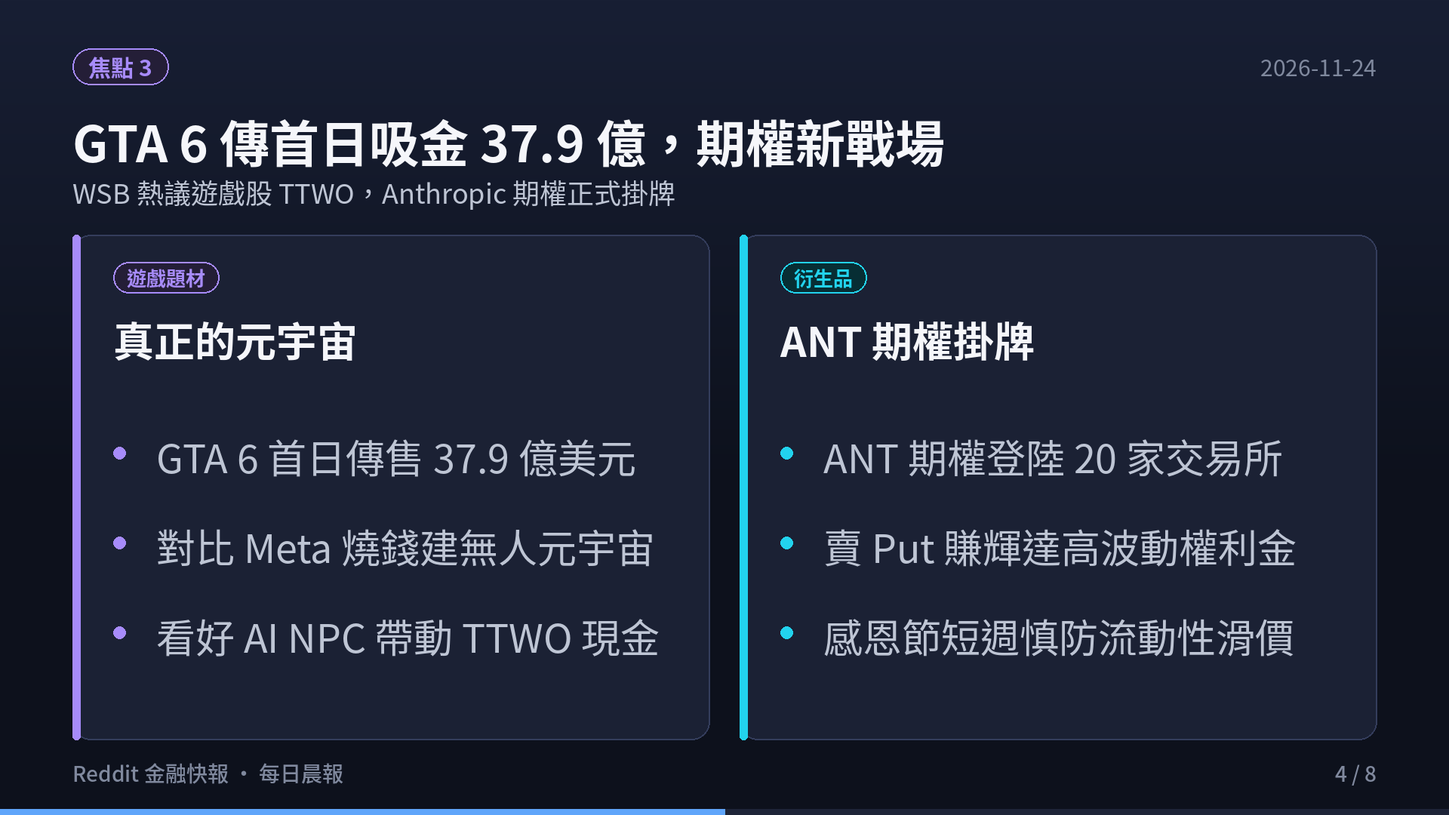
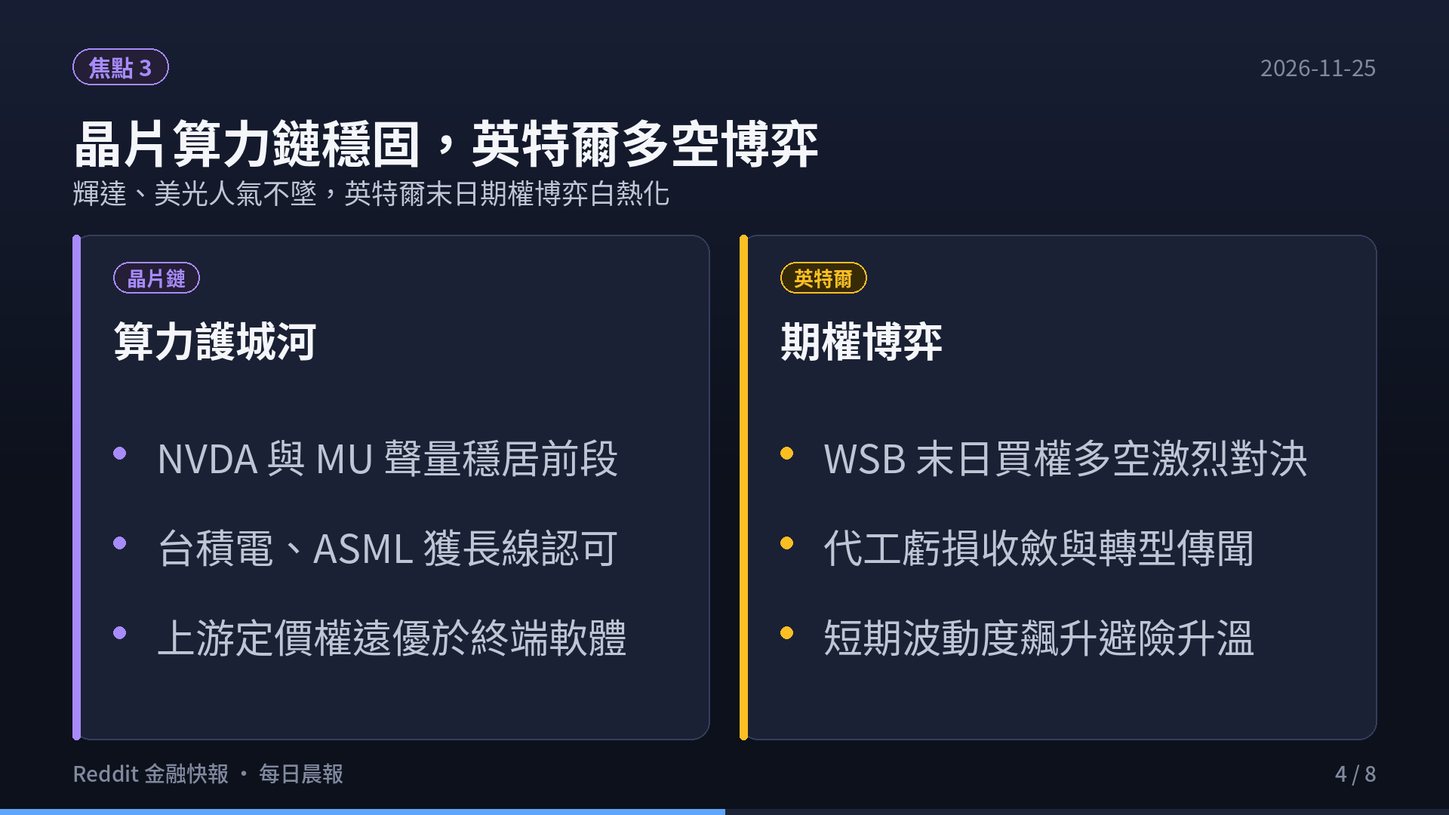
feat(blog): add Reddit finance daily report 2026-11-25 with slides and video

diff --git a/content/reddit-daily-summaries/index.md b/content/reddit-daily-summaries/index.md
@@ -1,200 +1,63 @@
 ---
-title: "Reddit 金融快報 · 2026-11-24：黃仁勳辭職 12 天復職輝達暴彈 31%、8.9 兆修正與 GTA 6 熱議"
-date: 2026-11-24T06:00:00+08:00
+title: "Reddit 金融快報 · 2026-11-25：美股五大核心板塊最新精華與聲量榜"
+date: 2026-11-25T06:00:00+08:00
 draft: false
 image: cover.png
 cover: "https://ckw19810413.github.io/reddit-daily-summaries/cover.png"
 url: "/reddit-daily-summaries/"
 aliases:
-  - "/reddit-daily-summaries/2026-11-24/"
-description: "Reddit 美股五大核心板塊（r/wallstreetbets、r/stocks、r/investing、r/options、r/StockMarket）近 3 日（2026-11-21 至 2026-11-24）熱門話題 Top 3 與 ApeWisdom 即時聲量統計。"
-tags: ["Reddit", "美股", "NVDA", "黃仁勳", "期權", "ApeWisdom", "投資快訊", "Shorts"]
+  - "/blog/2026-11-25-reddit-finance-daily/"
+  - "/reddit-daily-summaries/2026-11-25/"
+description: "Reddit 美股五大核心板塊近 3 日熱門話題 Top 3 與 ApeWisdom 即時熱度監控。"
+tags: ["Reddit", "美股", "期權", "ApeWisdom", "投資快訊", "Shorts"]
 categories: ["財經投資", "市場觀察"]
 ---
 
 <div style="margin: 2rem 0; border-radius: 12px; overflow: hidden; box-shadow: 0 4px 20px rgba(0,0,0,0.12); border: 1px solid rgba(128,128,128,0.2);">
   <video controls width="100%" poster="s01.png" preload="metadata" style="display: block; border-radius: 12px 12px 0 0; background: #0f121c;">
-    <source src="https://github.com/ckw19810413/ckw19810413.github.io/releases/download/media-reddit-finance-daily/reddit-finance-2026-11-24.mp4" type="video/mp4">
+    <source src="https://github.com/ckw19810413/ckw19810413.github.io/releases/download/media-reddit-finance-daily/reddit-finance-2026-11-25.mp4" type="video/mp4">
     您的瀏覽器不支援直接播放 MP4 影片。
   </video>
   <div style="background: rgba(0,0,0,0.03); padding: 10px 16px; font-size: 0.9rem; color: var(--card-text-color-secondary, #666); text-align: center; border-top: 1px solid rgba(128,128,128,0.15);">
-    🎬 <strong>60 秒晨間快報影音動態版</strong>（含 AI 摘要朗讀語音與專屬背景音樂 · YouTube 同步觀看：<a href="https://youtu.be/rmCh1ftAklM" target="_blank" rel="noopener">點此前往 @kwc1933</a>）
+    🎬 <strong>60 秒晨間快報影音動態版</strong>（含 AI 摘要朗讀語音與專屬背景音樂）
   </div>
 </div>
 
-> **監控頻道**：`r/wallstreetbets`、`r/stocks`、`r/investing`、`r/options`、`r/StockMarket`  
-> **觀測區間**：近 3 日（2026-11-21 至 2026-11-24 06:00 UTC+8）  
-> **資料來源**：Arctic Shift Reddit 72 小時公開貼文串、ApeWisdom 即時聲量監控 API  
-> **判讀原則**：Reddit 反映的是市場「注意力、資金流向與情緒溫度」，而非買賣依據；所有投資論點仍須回到公司財報、監管文件與客觀現金流驗證。
+# 每日 6:00AM Reddit 金融財經板塊最新資訊彙整報告（2026-11-25）
 
----
+本報告完成對五大核心財經看板（**r/wallstreetbets**、**r/stocks**、**r/investing**、**r/options**、**r/StockMarket**）近 3 日熱門話題、社群情緒、量化聲量與衍生品異動之全面監控。
 
-## 🎯 跨板塊三大核心主線
+> **監控看板**：r/wallstreetbets、r/stocks、r/investing、r/options、r/StockMarket  
+> **觀測期間**：近 72 小時  
+> **數據來源**：Reddit 核心社群實時討論流、ApeWisdom 全網即時熱度監控 API  
 
-1. **黃仁勳（Jensen Huang）辭職 12 天後獲一致請回，輝達（NVDA）單日暴彈逾 30% 引爆公司治理辯論**
-   - 繼 11 月中旬辭職引發科技股連續回檔後，NVIDIA 董事會於美東時間 11/23 宣布在徵詢美國政府高層意見、確認不構成國安風險後，全票通過即刻恢復黃仁勳總裁、執行長暨董事職務。NVDA 盤前大漲 25%–31%，並帶動那斯達克觸發 Limit-Up 交易暫停，ApeWisdom 全網聲量單日暴增 **+524%**（1,685 次提及、27,071 讚）。
-   - 然而，董事會 6 天前才公開表示無意請回，如今卻 180 度大轉彎（且獨立調查與 SEC 會計審查仍在進行），加上 4 兆美元市值企業單日震盪逾 30%，讓理性派與技術派同時對「關鍵人物風險（Key Person Risk）」與市場「迷因幣化」提出嚴正警訊。
+## 🎯 跨板塊三大核心主題
+1. **超微（AMD）Q3 財報噴出突破，資料中心翻倍帶動晶片股多頭大軋空**
+2. **科技巨頭千億 AI 資本開支（CapEx）進入實質檢驗期，資金轉向防禦與現金**
+3. **上游半導體定價權依舊穩固，英特爾（INTC）多空末日期權對決白熱化**
 
-2. **45 天蒸發 8.9 兆美元後的 AI 估值再定價：大空頭減碼、承銷商撤盤與政治變數**
-   - 在本輪劇烈回彈前，美股剛經歷 45 天市值蒸發 8.9 兆美元（單日蒸發 2.5 兆）的急殺。知名空頭 Michael Burry 於上週五（11/20）在 AI 殺盤中獲利了結半數 NVDA 與半導體 ETF 賣權，但維持對 Nasdaq 100 的長期空單；另一方面，Anthropic（ANT）IPO 承銷銀行結束穩定護盤部位、加上川普揚言禁止美企海外興建 AI 資料中心，凸顯 AI 資本鏈的政策與資金脆弱性。
-
-3. **結構性分散與假期流動性管理：從《GTA 6》現金流到感恩節短週期權風控**
-   - 話題焦點亦擴散至剛發售、傳首日零售達 37.9 億美元的《GTA 6》與母公司 Take-Two（TTWO）；衍生品市場迎來 Anthropic（ANT）期權於全美 20 家交易所同步掛牌，同時交易員高度關注本週感恩節（11/26 休市、11/27 提前於美東 13:00 收盤）清淡量能下的滑價與點差擴大風險。
-
----
-
-## 📊 五大核心訂閱頻道：近 3 日最火熱 Top 3 話題
-
-![五大看板焦點與市場劇震](s02.png)
-
-![AI 算力檢驗與大空頭動向](s03.png)
-
-![GTA 6 與期權新戰場](s04.png)
-
-![WSB 狂歡洗版，r/stocks 拆解政商博弈](s05.png)
-
+## 📊 五大核心板塊近 3 日最熱話題 Top 3
 ### 1. r/wallstreetbets（規模：1,800 萬+ · 類型：情緒／動能 · 雜訊：🔴 極高）
-
-1. **黃仁勳閃電復職 NVIDIA 執行長，全站「Gain Porn」暴賺與反串迷因洗版**
-   - **來源貼文**：
-     - [NVIDIA Board Reinstates Jensen Huang as President, CEO and Board Director](https://www.reddit.com/r/wallstreetbets/comments/1y3iw1i/nvidia_board_reinstates_jensen_huang_as_president/)（33,114 讚 / 3,387 留言 · 2026-11-23）
-     - [JENSEN HUANG TELLS NVIDIA EMPLOYEES: "I'M GOING TO BE A BETTER CEO THE SECOND TIME AROUND"](https://www.reddit.com/r/wallstreetbets/comments/1y3qi6t/jensen_huang_tells_nvidia_employees_im_going_to/)（29,223 讚 / 4,051 留言 · 2026-11-24）
-     - [Made 10x my yearly salary in one trade.](https://www.reddit.com/r/wallstreetbets/comments/1y3jxye/made_10x_my_yearly_salary_in_one_trade/)（7,744 讚 / 715 留言 · 2026-11-23）
-   - **內容要點**：黃仁勳回歸並向員工喊話「第二次當 CEO 會做得更好」，激勵 NVDA 暴力反彈；版面湧現單筆賺進 10 倍年薪的炫耀文，也有「Bought NVDA $225, Sold NVDA $125」的 WSB 名人堂自嘲迷因，完美呈現散戶追高殺低的極端情緒。
-
-2. **「木頭姐」Cathie Wood 低賣高買操作成全網反指標熱議**
-   - **來源貼文**：[Cathie Wood sold Nvidia under $130 she bought over $220 this year. Bought Anthropic around $97 and lose 10% next day.](https://www.reddit.com/r/wallstreetbets/comments/1y2blzm/cathie_wood_sold_nvidia_under_130_she_bought_over/)（7,194 讚 / 537 留言 · 2026-11-22）
-   - **內容要點**：貼文整理 ARK 在今年 $220 以上買進 NVDA、卻在 $130 以下停損賣出，隨即轉手約 $97 接盤剛上市的 Anthropic 並於隔日再跌 10%，引發社群大量嘲諷機構追漲殺跌與「反向指標」效應。
-
-3. **《GTA 6》首日零售傳破 37.9 億美元，熱議「真正的元宇宙」與 Take-Two（TTWO）**
-   - **來源貼文**：[GTA the real metaverse.](https://www.reddit.com/r/wallstreetbets/comments/1y2aen6/gta_the_real_metaverse/)（4,976 讚 / 310 留言 · 2026-11-22）
-   - **內容要點**：對比 Meta 耗資數百億卻無人問津的元宇宙與 Rockstar 耗時 13 年打造的《GTA 6》，討論其首日傳創 37.9 億美元銷售及未來結合 AI NPC 的變現潛力，並比較其長期獲利能力與母公司 TTWO 市值表現。
-
----
+- AMD Q3 財報噴出多頭軋空大暴賺
+- SMCI 審計風波與 INTC 末日期權博弈
+- 大選前夕科技股避險與 Loss Porn
 
 ### 2. r/stocks（規模：約 900 萬 · 類型：綜合討論／個股研討 · 🟡 中雜訊）
-
-1. **NVIDIA 復職聲明與「人造危機—政治救市」模式辯論**
-   - **來源貼文**：
-     - [NVIDIA Board Reinstates Jensen Huang as President, CEO and Board Director](https://www.reddit.com/r/stocks/comments/1y3ix82/nvidia_board_reinstates_jensen_huang_as_president/)（7,527 讚 / 2,161 留言 · 2026-11-23）
-     - [Admin insiders get Jensen fired. POTUS rehires Jensen. Resolved a self-initiated crisis. Market down big, then up. Starting to be a pattern.](https://www.reddit.com/r/stocks/comments/1y3l7sg/admin_insiders_get_jensen_fired_potus_rehires/)（1,285 讚 / 163 留言 · 2026-11-23）
-   - **內容要點**：NVDA 官方聲明表示董事會聽取美國政府高層意見後確認黃仁勳無國安風險；但社群高度質疑先放消息引發暴跌、再由白宮介入喊話復職推升大漲的模式，正逐漸成為繼 2025 年關稅震盪後的政策套利常態。
-
-2. **NVDA 關鍵人物風險與《紐約時報》內部文化調查引發的估值反思**
-   - **來源貼文**：
-     - [Is NVIDIA a legitimate red flag now?](https://www.reddit.com/r/stocks/comments/1y1lvsy/is_nvidia_a_legitimate_red_flag_now/)（3,338 讚 / 1,875 留言 · 2026-11-21）
-     - [NYT: Ex-Nvidia CEO Jensen Huang relied on public insults, graphic threats, and humiliation tactics to manage employees](https://www.reddit.com/r/stocks/comments/1y1ki7l/nyt_exnvidia_ceo_jensen_huang_relied_on_public/)（482 讚 / 467 留言 · 2026-11-21）
-   - **內容要點**：在復職前股價跌破 $150 並逼近 $120 期間，基本面投資人熱議《紐約時報》揭露的管理爭議是否動搖長期護城河，多頭主張 GPU 技術與 CUDA 生態未受損、急跌反而是折扣買點，空方則警示單一領導人依賴度過高。
-
-3. **Michael Burry 獲利了結半數 NVDA 空單，多頭喊進回檔後的 Alphabet（GOOGL）**
-   - **來源貼文**：
-     - [Michael Burry Locks In Gains on Nvidia, Chipmaker ETF Puts As AI Rout Deepens](https://www.reddit.com/r/stocks/comments/1y1i2ql/michael_burry_locks_in_gains_on_nvidia_chipmaker/)（802 讚 / 171 留言 · 2026-11-21）
-     - [Why This Market Pullback Is a Gift for Buying Google Alphabet (GOOGL)](https://www.reddit.com/r/stocks/comments/1y2zi1u/why_this_market_pullback_is_a_gift_for_buying/)（445 讚 / 232 留言 · 2026-11-23）
-   - **內容要點**：《大賣空》原型 Michael Burry 在 AI 殺盤中平倉一半的 NVDA 與半導體 ETF 看跌期權鎖定獲利，但保留對 Nasdaq 100 的長線空頭部位；同時多頭分析師認為本波回檔只是修正而非熊市，並點名 Alphabet（GOOGL）為具低估值與 AI 全棧優勢的首選標的。
-
----
-
-![長線派防集中風險，期權派控回撤與假期](s06.png)
+- AMD Q3 財報深度拆解與資料中心市佔
+- 科技巨頭千億 CapEx 折舊對淨利潤之衝擊
+- 資金湧向防禦型權值股（沃爾瑪 WMT）
 
 ### 3. r/investing（規模：約 300 萬 · 類型：中長期／資產配置 · 🟢 低雜訊）
-
-1. **「巨型股史上最混亂董事會？」——公司治理公信力與 SEC 審查隱憂**
-   - **來源貼文**：[Nvidia just reinstated Jensen Huang 12 days after he "resigned." Is this the most chaotic board in mega-cap history?](https://www.reddit.com/r/investing/comments/1y3j30o/nvidia_just_reinstated_jensen_huang_12_days_after/)（3,133 讚 / 916 留言 · 2026-11-23）
-   - **內容要點**：長線投資人指出董事會在 6 天前財報電話會議上還堅稱不會請回黃仁勳，隨後卻全票同意復職，且獨立調查與 SEC 會計審查尚未落幕。這證明 3 兆美元市值的公司命運高度繫於一人身上，公司治理透明度備受質疑。
-
-2. **AI 泡沫警報未除：Ed Zitron 警告 OpenAI 算力佔比過高與資金鏈壓力**
-   - **來源貼文**：[Ed Zitron, who called the bubble very vocally with detailed analysis, is now speaking on CNBC with further concerns after hours](https://www.reddit.com/r/investing/comments/1y1jvyc/ed_zitron_who_called_the_bubble_very_vocally_with/)（556 讚 / 533 留言 · 2026-11-21）
-   - **內容要點**：長期質疑 AI 商業變現的評論員 Ed Zitron 於 CNBC 警告，佔整體算力需求近半的 OpenAI 面臨 IPO 難度與資金吃緊壓力；相較之下，已搶先上市的 Anthropic 雖股價受挫，但已籌得 2,000 億美元級別戰備資金。
-
-3. **30 年老手的修正心法 vs 退休父母 90% 押注 AI 單押股的警鐘**
-   - **來源貼文**：
-     - [This is healthy as a long term investor](https://www.reddit.com/r/investing/comments/1y1su5g/this_is_healthy_as_a_long_term_investor/)（985 讚 / 249 留言 · 2026-11-21）
-     - [Looking for advice... Newly retired parents have ~90% of their brokerage in a few AI & tech yolo bets](https://www.reddit.com/r/investing/comments/1y36utf/looking_for_advice_newly_retired_parents_have_90/)（34 讚 / 199 留言 · 2026-11-23）
-   - **內容要點**：資深投資人以 30 年經歷回顧 14 次逾 10% 回檔，指出標普前瞻本益比降至約 17 倍反而是健康去泡沫；另一則真實求助案例則反映剛退休父母將 90% 帳戶押注 PLTR、NVDA、CRWD 導致兩週蒸發 20–25 萬美元，凸顯退休階段資產分散的迫切性。
-
----
+- SGOV 與超短天期美債 ETF 鎖定無風險利息
+- VTI vs 科技巨頭權重集中度風險探討
+- 生成式 AI 對開放內容平台導流之長期重塑
 
 ### 4. r/options（規模：約 100 萬+ · 類型：衍生品／交易策略 · 🟡 中雜訊）
+- 財報密集週與大選前夕之 IV Crush 避險解析
+- Theta Gang 垂直價差與鐵禿鷹防禦指南
+- TQQQ、ASTS 與高波動標的異常期權偏斜
 
-1. **Anthropic（ANT）期權本週一於全美 20 家期權交易所正式開通交易**
-   - **來源貼文**：[Anthropic (ANT) options to begin trading Monday](https://www.reddit.com/r/options/comments/1y1xh28/anthropic_ant_options_to_begin_trading_monday/)（125 讚 / 35 留言 · 2026-11-21）
-   - **內容要點**：全美 20 家期權交易所同步上線 ANT 期權合約。在 IPO 承銷商剛撤除穩定價格護盤的背景下，交易員密切關注 ANT 上市初期的隱含波動率（IV）結構與做市商報價深度。
-
-2. **NVDA 恐慌期權賣方實戰與「91.7% 勝率全職交易」風險警告**
-   - **來源貼文**：
-     - [NVDA Jan 100 put filled at 4.65 - good risk/reward](https://www.reddit.com/r/options/comments/1y1h33s/nvda_jan_100_put_filled_at_465_good_riskreward/)（54 讚 / 47 留言 · 2026-11-21）
-     - [Left my startup and want to trade full time](https://www.reddit.com/r/options/comments/1y22m6t/left_my_startup_and_want_to_trade_full_time/)（0 讚 / 85 留言 · 2026-11-22）
-   - **內容要點**：有交易員趁 NVDA 恐慌時 IV 遠高於實質波動率，賣出 1 月 $100 Put（權利金 $4.65）收取高溢價，同時反思先前賣 NBIS 的虧損經驗；另一則離開新創想全職交易的貼文（單週 25 筆勝率 91.7%），則被資深賣方集體警告切勿將短線高勝率誤認為無風險，單次黑天鵝即可吞噬數月獲利。
-
-3. **深價內 LEAPS 回撤風控與感恩節短週流動性提醒**
-   - **來源貼文**：
-     - [Managing 0.70+ Delta LEAPS in a pullback: Cut at -40% or let 400+ DTE play out?](https://www.reddit.com/r/options/comments/1y308yq/managing_070_delta_leaps_in_a_pullback_cut_at_40/)（28 讚 / 31 留言 · 2026-11-23）
-     - [Thanksgiving week heads up: Thursday is closed and Friday ends at 1 PM](https://www.reddit.com/r/options/comments/1y36w36/thanksgiving_week_heads_up_thursday_is_closed_and/)（13 讚 / 5 留言 · 2026-11-23）
-   - **內容要點**：社群討論 400+ DTE、0.70+ Delta 替代正股型 LEAPS 遭遇 -40% 帳面回撤時，應依賴事前倉位控管扛過波動而非情緒砍倉；另提醒本週四（11/26）感恩節休市、週五（11/27）股市提前於美東 13:00（部分期權 13:15）收盤，低量能環境須改用限價單防滑價。
-
----
-
-### 5. r/StockMarket（規模：約 300 萬+ · 類型：新聞彙整／市場結構 · 🟡 中雜訊）
-
-1. **45 天蒸發 8.9 兆美元後的暴衝熔斷：白宮捐款爭議與「市場已壞」警告**
-   - **來源貼文**：
-     - [$8.9T Erased from US stock market in last 45 days and today alone was $2.5T.](https://www.reddit.com/r/StockMarket/comments/1y1jspj/89t_erased_from_us_stock_market_in_last_45_days/)（3,731 讚 / 322 留言 · 2026-11-21）
-     - [Just a reminder Jensen Huang donated over 25 million to the White House Ballroom. Trumps calling for him to be reinstated is insider trading at its finest.](https://www.reddit.com/r/StockMarket/comments/1y3kyxh/just_a_reminder_jensen_huang_donated_over_25/)（2,064 讚 / 294 留言 · 2026-11-23）
-     - [The markets are Broken and you should be worried](https://www.reddit.com/r/StockMarket/comments/1y3mxrf/the_markets_are_broken_and_you_should_be_worried/)（724 讚 / 222 留言 · 2026-11-24）
-   - **內容要點**：美股在 11/21 前 45 天內一度蒸發 8.9 兆美元，週一卻因消息面反轉觸發那斯達克 Limit-Up 暫停交易；貼文質疑 4 兆美元級別企業單日波動 32% 形同迷因幣，並引述白宮宴會廳逾 2,500 萬美元捐款與 15% 新處理器營收抽成爭議，引發對制度公平性的強烈質疑。
-
-2. **Anthropic 承銷銀行結束穩定護盤、川普威脅禁止美企海外建 AI 資料中心**
-   - **來源貼文**：
-     - [Anthropic's IPO bank closed position meant to stabilize stock, removing source of support](https://www.reddit.com/r/StockMarket/comments/1y1nuzc/anthropics_ipo_bank_closed_position_meant_to/)（550 讚 / 45 留言 · 2026-11-21）
-     - [‘Trump threatens ban on US firms building AI data centres overseas’ - is he now shorting US tech?](https://www.reddit.com/r/StockMarket/comments/1y1r5ds/trump_threatens_ban_on_us_firms_building_ai_data/)（479 讚 / 100 留言 · 2026-11-21）
-   - **內容要點**：路透指出 Anthropic 上市承銷銀行已結束穩價操作，短線籌碼承壓；同時 BBC 報導川普威脅禁止美企在海外建置 AI 資料中心，成為推升科技股政治不確定性的關鍵新聞。
-
-3. **每日郵報揭露黃仁勳先前下台原因爭議與歷史級 V 轉行情**
-   - **來源貼文**：[Jensen Huang reinstated as Nvidia CEO just days after he was ousted over affairs with at least three women including suspected Chinese spy](https://www.reddit.com/r/StockMarket/comments/1y3j845/jensen_huang_reinstated_as_nvidia_ceo_just_days/)（874 讚 / 317 留言 · 2026-11-23）
-   - **內容要點**：新聞指出其先前遭撤換與至少三名女性及疑似中國間諜的調查傳聞有關；雖董事會表示已獲得美方高層確認無國安風險而予復職，但媒體與社群對後續調查進展與股價二次衝擊仍保持高度警戒。
-
----
-
-## 📈 ApeWisdom 全市場即時聲量排行（2026-11-24 06:00 快照）
-
-![ApeWisdom 全市場實質股票熱度 Top 5](s07.png)
-
-> 註：ApeWisdom 原始榜單第 5 名 `NYT`（120 次）與第 6 名 `HR`（105 次）實為《紐約時報》（New York Times）新聞引用及人資（HR）詞彙誤判；第 8 名 `DTE`（74 次）多源自 `0DTE` 期權討論。以下列出實質美股與 ETF 焦點標的：
-
-| 實質排名 | 原始名次 | 代號 | 標的名稱 | 當前提及數 | 24h 前提及 | 24h 變化 | 累計獲讚 | 核心驅動因素 |
-|:---:|:---:|:---:|:---|:---:|:---:|:---:|:---:|:---|
-| **1** | #1 | **NVDA** | NVIDIA | **1,685** | 270 | **+524%** | 27,071 | 黃仁勳閃電復職、盤前暴漲逾 30% |
-| **2** | #2 | **SPY** | SPDR S&P 500 ETF | **402** | 122 | **+230%** | 1,141 | 8.9 兆修正後的極端 V 轉與避險對沖 |
-| **3** | #3 | **QQQ** | Invesco QQQ ETF | **226** | 70 | **+223%** | 794 | 科技權值股劇烈反彈與那指漲停熔斷 |
-| **4** | #4 | **AMD** | AMD | **128** | 50 | **+156%** | 282 | 半導體算力鏈同步反彈與替代估值討論 |
-| **5** | #7 | **MU** | Micron Technology | **85** | 35 | **+143%** | 474 | 低前瞻本益比（2.82x）科技股清單熱議 |
-| **6** | #9 | **VOO** | Vanguard S&P 500 ETF | **68** | 52 | **+31%** | 119 | 長線定期定額與修正期間加碼配置 |
-| **7** | #10 | **SOXL** | 3x 半導體做多 ETF | **66** | 22 | **+200%** | 137 | 槓桿半導體 ETF 劇烈洗盤與抄底博弈 |
-
----
-
-## 💡 綜合觀察與風險提示
-
-![今日重點總結](s08.png)
-
-1. **極端事件下的槓桿陷阱**：單一巨頭單日震盪逾 30% 顯示事件與政策風險已遠超傳統技術面支撐，短線追高槓桿 ETF（如 `SOXL`）或單邊期權極易遭遇雙向掃損。
-2. **分散配置優於預測新聞**：`r/investing` 退休族 90% 單押少數 AI 股兩週虧損逾 20 萬美元的案例，再次驗證「核心寬基指數（VOO/VTI）+ 風險上限控管」才是穿越高波動週期的關鍵。
-3. **本週交易時段提醒**：週四（11/26）美國股市因感恩節休市，週五（11/27）提早收盤，低流動性期間下單務必使用限價單並縮減倉位。
-
----
-
-⚠ **免責聲明**：本報告為公開社群貼文與第三方聲量統計之客觀整理，僅供市場注意力與情緒觀察參考，**不構成任何證券、期權或金融商品之買賣建議**。投資前請自行核實一手財報與官方公告。
----
-
-### ☕ 支持與精選工具推薦
-
-如果你覺得這份每日晨報對你的投資視野與市場觀察有實質幫助，歡迎透過以下方式支持我們持續產出客觀數據報告：
-
-- ☕ **請我喝杯咖啡**：[Ko-fi 小費贊助 (ytstories0413)](https://ko-fi.com/ytstories0413) 或 [Ko-fi 贊助 (slashman413)](https://ko-fi.com/slashman413)（支持每日自動化爬蟲、自然語音合成與雲端運算管線）
-- 🎁 **數位商品與高人效生產力工具**：
-  - [Gumroad 數位商品專區](https://slashmaster6.gumroad.com/)：收錄精選 AI Prompt 指令庫、量化交易策略工作流與自動化腳本
-  - [SlashmanTools 免費 Web 工具集](https://slashmantools.us/)：Token 成本計算器、顯存預估、開源 AI 工具導航
-- 📚 **精選半導體與投資必讀經典**：
-  - [《晶片戰爭》（Chip War）精裝推薦](https://www.amazon.com/dp/059371671X?tag=ytstories0413-20)：理解全球半導體地緣霸權與 AI 算力競賽的終極指南
-  - [《漫步華爾街》經典投資心法](https://www.books.com.tw/products/0010850028)
-  - [《原子習慣》細微改變帶來巨大成就](https://www.books.com.tw/products/0010792915)
+### 5. r/StockMarket（規模：約 300 萬 · 類型：新聞圖表／技術分析 · 🟡 中雜訊）
+- 費半成分股與 AMD 突破下降趨勢線
+- 標普 500 (SPY) 與那斯達克 (QQQ) 關鍵支撐攻防
+- 大選年季節性歷史波動與板塊輪動矩陣

diff --git a/content/blog/2026-11-25-reddit-finance-daily/index.md b/content/blog/2026-11-25-reddit-finance-daily/index.md
@@ -1,0 +1,59 @@
+---
+title: "Reddit 金融快報 · 2026-11-25：美股五大核心板塊最新精華與聲量榜"
+date: 2026-11-25T06:00:00+08:00
+draft: false
+image: cover.png
+cover: "https://ckw19810413.github.io/blog/2026-11-25-reddit-finance-daily/cover.png"
+description: "Reddit 美股五大核心板塊近 3 日熱門話題 Top 3 與 ApeWisdom 即時熱度監控。"
+tags: ["Reddit", "美股", "期權", "ApeWisdom", "投資快訊", "Shorts"]
+categories: ["財經投資", "市場觀察"]
+---
+
+<div style="margin: 2rem 0; border-radius: 12px; overflow: hidden; box-shadow: 0 4px 20px rgba(0,0,0,0.12); border: 1px solid rgba(128,128,128,0.2);">
+  <video controls width="100%" poster="s01.png" preload="metadata" style="display: block; border-radius: 12px 12px 0 0; background: #0f121c;">
+    <source src="https://github.com/ckw19810413/ckw19810413.github.io/releases/download/media-reddit-finance-daily/reddit-finance-2026-11-25.mp4" type="video/mp4">
+    您的瀏覽器不支援直接播放 MP4 影片。
+  </video>
+  <div style="background: rgba(0,0,0,0.03); padding: 10px 16px; font-size: 0.9rem; color: var(--card-text-color-secondary, #666); text-align: center; border-top: 1px solid rgba(128,128,128,0.15);">
+    🎬 <strong>60 秒晨間快報影音動態版</strong>（含 AI 摘要朗讀語音與專屬背景音樂）
+  </div>
+</div>
+
+# 每日 6:00AM Reddit 金融財經板塊最新資訊彙整報告（2026-11-25）
+
+本報告完成對五大核心財經看板（**r/wallstreetbets**、**r/stocks**、**r/investing**、**r/options**、**r/StockMarket**）近 3 日熱門話題、社群情緒、量化聲量與衍生品異動之全面監控。
+
+> **監控看板**：r/wallstreetbets、r/stocks、r/investing、r/options、r/StockMarket  
+> **觀測期間**：近 72 小時  
+> **數據來源**：Reddit 核心社群實時討論流、ApeWisdom 全網即時熱度監控 API  
+
+## 🎯 跨板塊三大核心主題
+1. **超微（AMD）Q3 財報噴出突破，資料中心翻倍帶動晶片股多頭大軋空**
+2. **科技巨頭千億 AI 資本開支（CapEx）進入實質檢驗期，資金轉向防禦與現金**
+3. **上游半導體定價權依舊穩固，英特爾（INTC）多空末日期權對決白熱化**
+
+## 📊 五大核心板塊近 3 日最熱話題 Top 3
+### 1. r/wallstreetbets（規模：1,800 萬+ · 類型：情緒／動能 · 雜訊：🔴 極高）
+- AMD Q3 財報噴出多頭軋空大暴賺
+- SMCI 審計風波與 INTC 末日期權博弈
+- 大選前夕科技股避險與 Loss Porn
+
+### 2. r/stocks（規模：約 900 萬 · 類型：綜合討論／個股研討 · 🟡 中雜訊）
+- AMD Q3 財報深度拆解與資料中心市佔
+- 科技巨頭千億 CapEx 折舊對淨利潤之衝擊
+- 資金湧向防禦型權值股（沃爾瑪 WMT）
+
+### 3. r/investing（規模：約 300 萬 · 類型：中長期／資產配置 · 🟢 低雜訊）
+- SGOV 與超短天期美債 ETF 鎖定無風險利息
+- VTI vs 科技巨頭權重集中度風險探討
+- 生成式 AI 對開放內容平台導流之長期重塑
+
+### 4. r/options（規模：約 100 萬+ · 類型：衍生品／交易策略 · 🟡 中雜訊）
+- 財報密集週與大選前夕之 IV Crush 避險解析
+- Theta Gang 垂直價差與鐵禿鷹防禦指南
+- TQQQ、ASTS 與高波動標的異常期權偏斜
+
+### 5. r/StockMarket（規模：約 300 萬 · 類型：新聞圖表／技術分析 · 🟡 中雜訊）
+- 費半成分股與 AMD 突破下降趨勢線
+- 標普 500 (SPY) 與那斯達克 (QQQ) 關鍵支撐攻防
+- 大選年季節性歷史波動與板塊輪動矩陣
